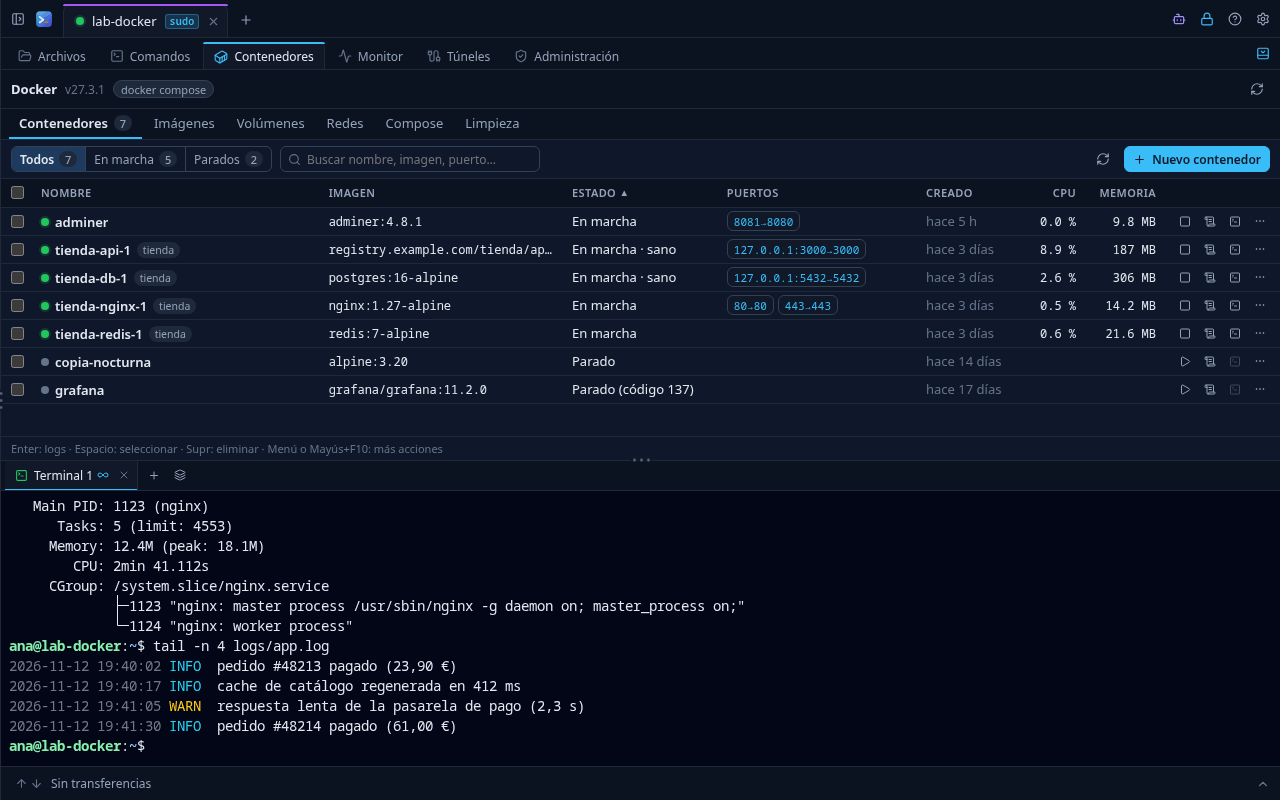
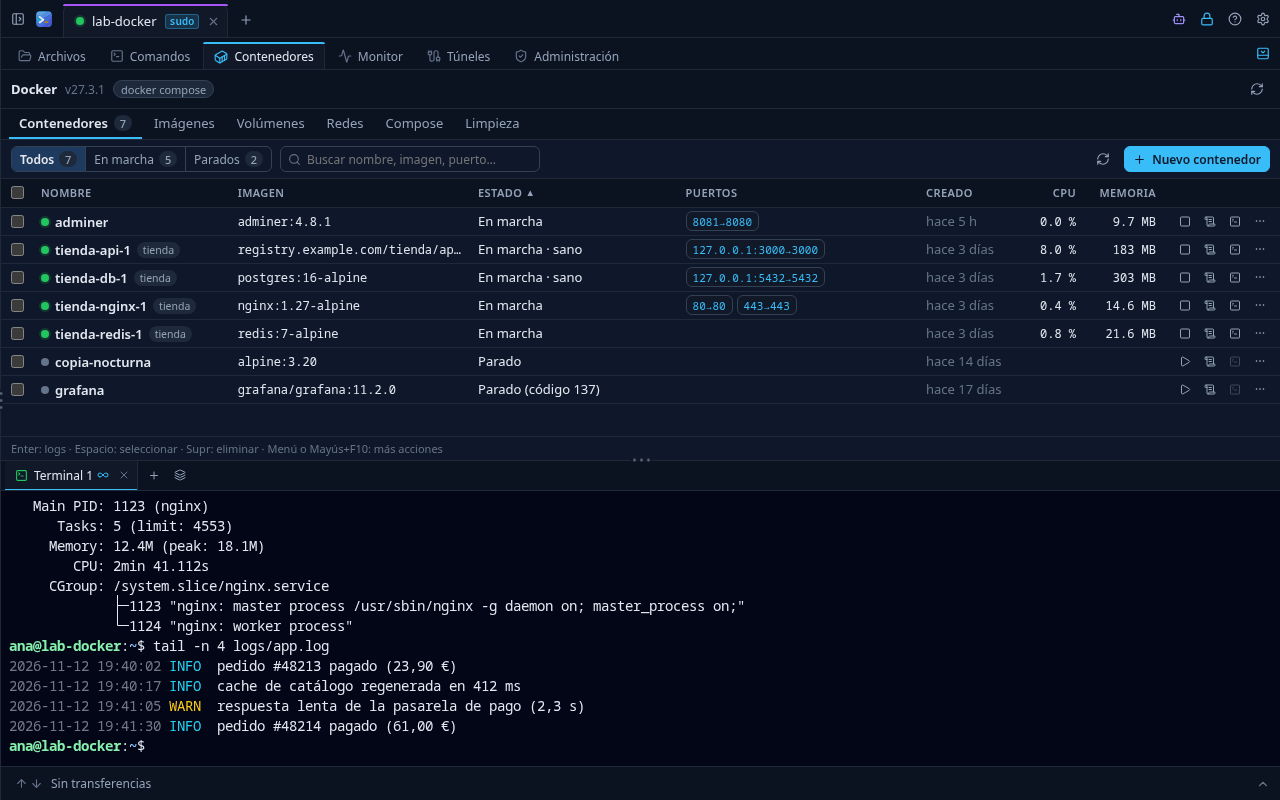
Contenedores: imagen, estado y puertos caben con la barra lateral abierta

diff --git a/docs/dev/vista-previa/escenas/contenedores.ts b/docs/dev/vista-previa/escenas/contenedores.ts
@@ -1,16 +1,20 @@
 // Pestaña «Contenedores» de lab-docker: Docker detectado, contenedores con CPU y memoria en vivo.
 import { click, connect, el, sessionTab, sleep } from "../ayuda";
 
+async function contenedores(sinBarra: boolean) {
+  await connect("lab-docker");
+  if (sinBarra) await click(el(".tabs-side-btn"));
+  await sessionTab("Contenedores");
+  await el(".ct-table", 10000);
+  // Espera a la primera lectura de `docker stats` (CPU y memoria en la tabla).
+  const end = Date.now() + 8000;
+  while (Date.now() < end && !/%/.test(document.querySelector(".ct-table tbody")?.textContent ?? "")) await sleep(200);
+  await sleep(600);
+}
+
 export const escenas: Record<string, () => Promise<void>> = {
-  contenedores: async () => {
-    await connect("lab-docker");
-    // Sin barra lateral: la tabla cabe entera (imagen, estado y puertos sin recortar).
-    await click(el(".tabs-side-btn"));
-    await sessionTab("Contenedores");
-    await el(".ct-table", 10000);
-    // Espera a la primera lectura de `docker stats` (CPU y memoria en la tabla).
-    const end = Date.now() + 8000;
-    while (Date.now() < end && !/%/.test(document.querySelector(".ct-table tbody")?.textContent ?? "")) await sleep(200);
-    await sleep(600);
-  },
+  // Para el manual, sin barra lateral: más sitio para la tabla.
+  contenedores: () => contenedores(true),
+  // Comprobación (no va al manual): la tabla con la barra lateral abierta.
+  "contenedores-barra": () => contenedores(false),
 };

diff --git a/src/components/Containers/Containers.css b/src/components/Containers/Containers.css
@@ -424,6 +424,30 @@
 .ct-col-ports {
   width: 18%;
 }
+/* Contenedores: el nombre cede sitio a imagen, estado y puertos (la barra lateral abierta deja ~1000 px). */
+.ct-table-containers .ct-col-name {
+  width: 18%;
+}
+.ct-table-containers .ct-col-image {
+  width: 22%;
+}
+.ct-table-containers .ct-col-state {
+  width: 19%;
+}
+.ct-table-containers .ct-col-ports {
+  width: 22%;
+}
+/* Si no cabe, se recorta antes la etiqueta del proyecto Compose (con «…») que el nombre. */
+.ct-table-containers .ct-col-name .ct-strong {
+  flex: none;
+  max-width: calc(100% - 14px);
+}
+.ct-table-containers .ct-col-name .ct-tag {
+  display: block;
+  line-height: 16px;
+  flex: 0 1 auto;
+  min-width: 0;
+}
 .ct-col-created {
   width: 96px;
 }

diff --git a/src/components/Containers/ContainersTab.tsx b/src/components/Containers/ContainersTab.tsx
@@ -420,7 +420,7 @@ export function ContainersTab() {
             </button>
           </div>
         ) : (
-          <table className="ct-table">
+          <table className="ct-table ct-table-containers">
             <thead>
               <tr>
                 <th className="ct-col-chk">
